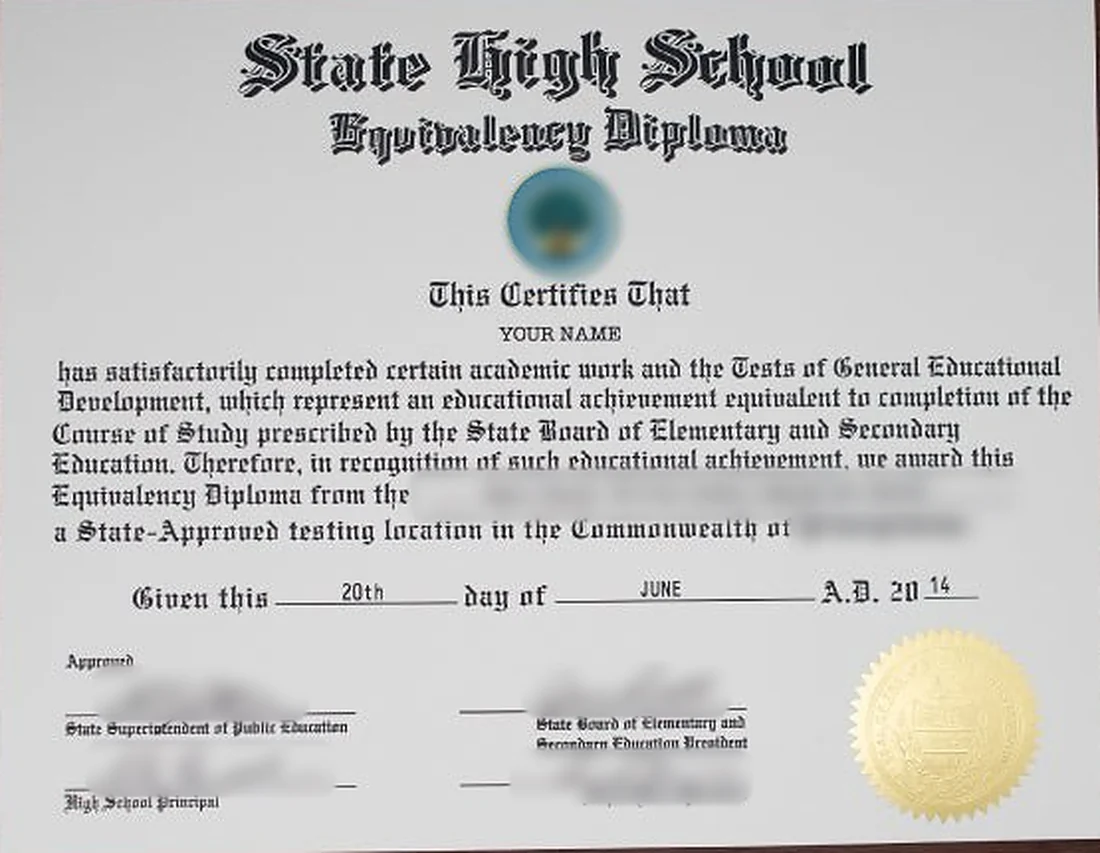
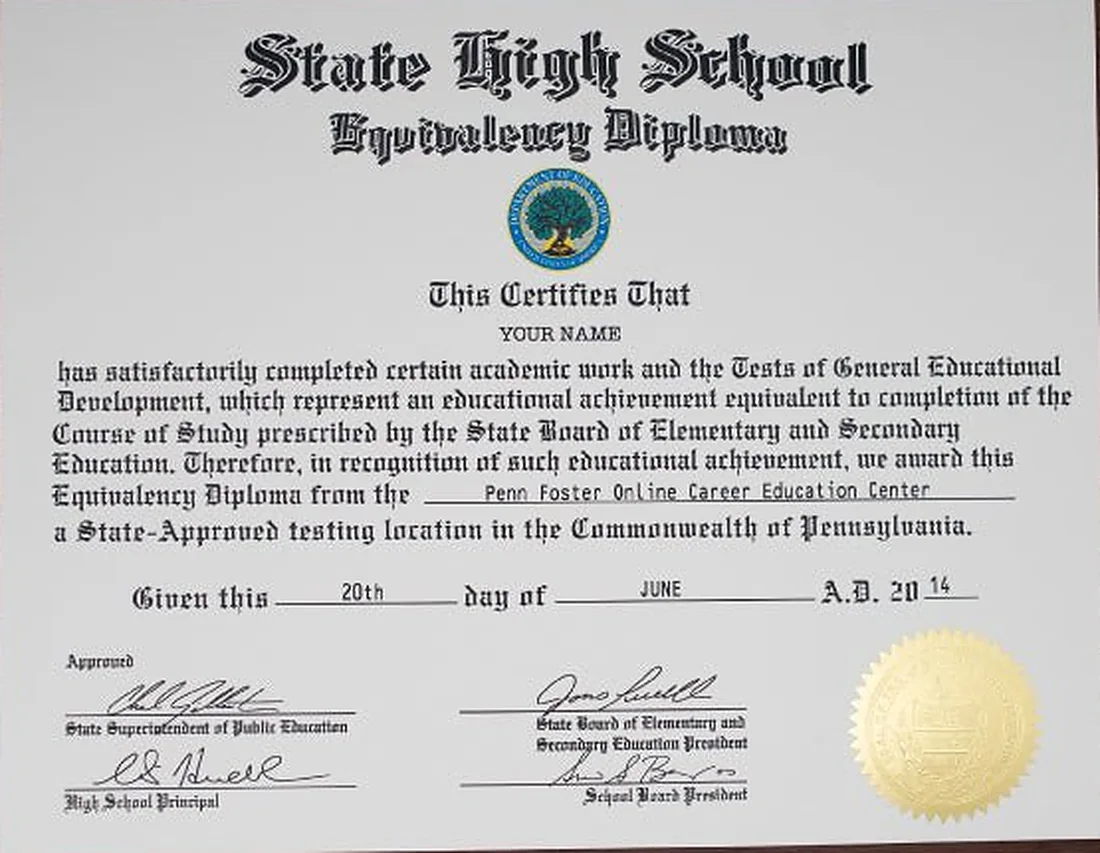
Noir Foil R10: section 01 eight-sample spread under the 01 numeral; school names allowed, recipient names blurred

diff --git a/noir-foil/index.html b/noir-foil/index.html
@@ -55,8 +55,8 @@
   <div class="nf-diff__head">
     <p class="nf-label">THE SAME DAY DIPLOMAS DIFFERENCE</p>
     <h2 class="nf-h2">Fake High School and College Diploma Makers</h2>
-    <a class="nf-collage" href="shop.html" aria-label="Shop high school, GED and college diplomas"><span class="nf-collage__card nf-collage__card--a"><img src="img/s01-college.webp" alt="Photo of a printed Master of Business Administration diploma (names blurred)" width="1200" height="923" loading="lazy" decoding="async"></span><span class="nf-collage__card nf-collage__card--b"><img src="img/s01-high-school.webp" alt="Photo of a printed high school diploma with gold seal (names blurred)" width="940" height="1205" loading="lazy" decoding="async"></span><span class="nf-collage__card nf-collage__card--c"><img src="img/s01-ged.webp" alt="Photo of a printed high school equivalency (GED) diploma on wood (names blurred)" width="1100" height="853" loading="lazy" decoding="async"></span></a>
   </div>
+  <a class="nf-collage" href="shop.html" aria-label="Shop high school, GED, college diplomas and certificates"><span class="nf-collage__card nf-collage__card--1"><img src="img/s01-pepperdine.webp" alt="Photo of a printed Pepperdine University doctoral diploma" width="1150" height="891" loading="lazy" decoding="async"></span><span class="nf-collage__card nf-collage__card--2"><img src="img/s01-marquette.webp" alt="Photo of a hand-held Marquette University bachelor's diploma (name blurred)" width="1150" height="885" loading="lazy" decoding="async"></span><span class="nf-collage__card nf-collage__card--3"><img src="img/s01-national.webp" alt="Photo of a hand-held National University bachelor's diploma (name blurred)" width="1150" height="885" loading="lazy" decoding="async"></span><span class="nf-collage__card nf-collage__card--4"><img src="img/s01-auburn.webp" alt="Photo of a hand-held Auburn University bachelor's diploma (name blurred)" width="1150" height="885" loading="lazy" decoding="async"></span><span class="nf-collage__card nf-collage__card--5"><img src="img/s01-alberta.webp" alt="Photo of a printed Alberta high school diploma (name blurred)" width="900" height="1154" loading="lazy" decoding="async"></span><span class="nf-collage__card nf-collage__card--6"><img src="img/s01-aqa.webp" alt="Photo of a printed AQA General Certificate of Education (name blurred)" width="900" height="1224" loading="lazy" decoding="async"></span><span class="nf-collage__card nf-collage__card--7"><img src="img/s01-ged.webp" alt="Photo of a printed state high school equivalency (GED) diploma" width="1100" height="853" loading="lazy" decoding="async"></span><span class="nf-collage__card nf-collage__card--8"><img src="img/s01-wecloud.webp" alt="Photo of a printed certificate of achievement (name blurred)" width="1150" height="878" loading="lazy" decoding="async"></span></a>
   <div class="nf-diff__body">
     <p class="nf-lead">Same Day Diplomas provides high-quality replacement, replica diplomas, transcripts &amp; certificates since 2001! Our quality and service is unmatched. See for yourself! We are glad you are here.</p>
     <ul class="nf-trust"><li><svg viewBox="0 0 24 24" width="26" height="26" fill="none" stroke="currentColor" stroke-width="1.4" stroke-linecap="round" stroke-linejoin="round" aria-hidden="true"><path d="M3 21h18"/><path d="M5 21V8l7-4 7 4v13"/><path d="M9 21v-6h6v6"/><path d="M9 10h.01M15 10h.01M12 10h.01"/></svg><span>ESTABLISHED ONLINE DIPLOMA PROVIDER</span></li><li><svg viewBox="0 0 24 24" width="26" height="26" fill="none" stroke="currentColor" stroke-width="1.4" stroke-linecap="round" stroke-linejoin="round" aria-hidden="true"><rect x="4" y="11" width="16" height="10" rx="2"/><path d="M8 11V7a4 4 0 0 1 8 0v4"/><circle cx="12" cy="16" r="1.2"/></svg><span>SECURE CHECKOUT</span></li><li><svg viewBox="0 0 24 24" width="26" height="26" fill="none" stroke="currentColor" stroke-width="1.4" stroke-linecap="round" stroke-linejoin="round" aria-hidden="true"><path d="M3 7h11v10H3z"/><path d="M14 10h4l3 3v4h-7"/><circle cx="7" cy="19" r="1.6"/><circle cx="17.5" cy="19" r="1.6"/></svg><span>DISCREET SHIPPING</span></li><li><svg viewBox="0 0 24 24" width="26" height="26" fill="none" stroke="currentColor" stroke-width="1.4" stroke-linecap="round" stroke-linejoin="round" aria-hidden="true"><path d="M9 11l3 3L22 4"/><path d="M21 12v7a2 2 0 0 1-2 2H5a2 2 0 0 1-2-2V5a2 2 0 0 1 2-2h11"/></svg><span>75000+ COMPLETED ORDERS</span></li><li><svg viewBox="0 0 24 24" width="26" height="26" fill="none" stroke="currentColor" stroke-width="1.4" stroke-linecap="round" stroke-linejoin="round" aria-hidden="true"><circle cx="12" cy="12" r="9"/><path d="M3 12h18"/><path d="M12 3a14 14 0 0 1 0 18a14 14 0 0 1 0-18"/></svg><span>GLOBAL REACH</span></li><li><svg viewBox="0 0 24 24" width="26" height="26" fill="none" stroke="currentColor" stroke-width="1.4" stroke-linecap="round" stroke-linejoin="round" aria-hidden="true"><path d="m12 3.5 2.4 4.9 5.4.8-3.9 3.8.9 5.4L12 15.9 7.2 18.4l.9-5.4-3.9-3.8 5.4-.8z"/></svg><span>POSITIVE REVIEWS</span></li></ul>

diff --git a/noir-foil/styles.css b/noir-foil/styles.css
@@ -132,18 +132,22 @@ button{font:inherit;color:inherit;cursor:pointer;background:none;border:0}
 .nf-diff{display:grid;grid-template-columns:repeat(12,1fr);gap:2rem;align-items:start}
 .nf-diff>.nf-bignum{grid-column:1/4;margin-top:-.5rem}
 .nf-diff__head{grid-column:4/9}
-.nf-diff__body{grid-column:9/13;padding-top:2.2rem}
+.nf-diff__body{grid-column:9/13;grid-row:1/3;padding-top:2.2rem}
 /* R9: section 01 collage - three real photographed samples (college / high school / GED) as overlapping gold-framed cards */
-.nf-collage{position:relative;display:block;aspect-ratio:1.3;margin:2.6rem 0 0;max-width:580px}
-.nf-collage::before{content:"";position:absolute;inset:8% 4% 2%;background:radial-gradient(ellipse at 50% 55%,rgba(201,164,92,.16),transparent 68%);pointer-events:none}
-.nf-collage__card{position:absolute;display:block;background:var(--paper);padding:5px;border:1px solid var(--gold);box-shadow:0 0 0 4px rgba(10,9,8,.85),0 0 0 5px var(--gold-lo),0 26px 48px rgba(0,0,0,.6);transition:transform .35s ease}
+/* R10: eight-sample spread under "01", across the middle column */
+.nf-collage{grid-column:1/9;grid-row:2;position:relative;display:block;aspect-ratio:1.85;margin:1rem 0 0}
+.nf-collage::before{content:"";position:absolute;inset:6% 2% 0;background:radial-gradient(ellipse at 50% 55%,rgba(201,164,92,.15),transparent 70%);pointer-events:none}
+.nf-collage__card{position:absolute;display:block;background:var(--paper);padding:5px;border:1px solid var(--gold);box-shadow:0 0 0 4px rgba(10,9,8,.85),0 0 0 5px var(--gold-lo),0 22px 42px rgba(0,0,0,.6);transform:rotate(var(--r,0deg));transition:transform .35s ease}
 .nf-collage__card img{display:block;width:100%;height:auto}
-.nf-collage__card--a{left:22%;top:0;width:60%;transform:rotate(-2deg);z-index:1}
-.nf-collage__card--b{left:0;top:37%;width:30%;transform:rotate(-6deg);z-index:2}
-.nf-collage__card--c{right:0;top:49%;width:48%;transform:rotate(4.5deg);z-index:3}
-.nf-collage:hover .nf-collage__card--a{transform:rotate(-1deg) translateY(-4px)}
-.nf-collage:hover .nf-collage__card--b{transform:rotate(-8deg) translateX(-4px)}
-.nf-collage:hover .nf-collage__card--c{transform:rotate(6deg) translateX(4px)}
+.nf-collage__card--1{left:0;top:3%;width:30%;--r:-3deg;z-index:2}
+.nf-collage__card--2{left:35%;top:0;width:28%;--r:2deg;z-index:1}
+.nf-collage__card--3{left:2%;top:50%;width:27%;--r:2.5deg;z-index:3}
+.nf-collage__card--4{left:63%;top:5%;width:26%;--r:-2deg;z-index:2}
+.nf-collage__card--5{left:25.5%;top:28%;width:15%;--r:4deg;z-index:4}
+.nf-collage__card--6{left:85%;top:17%;width:15%;--r:5deg;z-index:3}
+.nf-collage__card--7{left:39%;top:47%;width:27%;--r:-3deg;z-index:5}
+.nf-collage__card--8{left:65%;top:51%;width:28%;--r:3deg;z-index:4}
+.nf-collage__card:hover{transform:rotate(var(--r,0deg)) translateY(-6px) scale(1.03);z-index:9}
 .nf-trust{list-style:none;margin-top:2.5rem;border-top:1px solid var(--line)}
 .nf-trust li{display:flex;align-items:center;gap:1.1rem;padding:1rem 0;border-bottom:1px solid var(--line);font-size:.86rem;letter-spacing:.14em;font-weight:600;color:var(--ivory)}
 .nf-trust svg{color:var(--gold);flex:none}
@@ -414,7 +418,8 @@ button{font:inherit;color:inherit;cursor:pointer;background:none;border:0}
   .main-nav{gap:1.6rem}
   .mega__cols{grid-template-columns:repeat(3,1fr)}
   .nf-diff>.nf-bignum{grid-column:1/-1}
-  .nf-diff__head{grid-column:1/7}.nf-diff__body{grid-column:7/13;padding-top:0}
+  .nf-diff__head{grid-column:1/7;grid-row:2}.nf-diff__body{grid-column:7/13;grid-row:2;padding-top:0}
+  .nf-collage{grid-column:1/-1;grid-row:3;margin-top:1rem}
   .nf-help__in{grid-template-columns:1fr 1fr}.nf-help__btns{grid-column:1/-1}
   .nf-foil__head{grid-template-columns:auto 1fr}.nf-foil__head .nf-lead{grid-column:1/-1}
 }
@@ -457,9 +462,11 @@ button{font:inherit;color:inherit;cursor:pointer;background:none;border:0}
   .nf-ticker li{gap:1.1rem}
 
   .nf-diff{grid-template-columns:1fr;gap:1rem}
-  .nf-diff>.nf-bignum,.nf-diff__head,.nf-diff__body{grid-column:1/-1}
+  .nf-diff>.nf-bignum,.nf-diff__head,.nf-diff__body,.nf-collage{grid-column:1/-1;grid-row:auto}
   .nf-bignum{font-size:4.6rem}
-  .nf-collage{margin:1.8rem auto .6rem;width:94%}
+  .nf-collage{display:grid;grid-template-columns:1fr 1fr;gap:1.1rem .9rem;aspect-ratio:auto;margin:1.2rem 0 .4rem;padding:6px}
+  .nf-collage__card{position:static;width:auto;align-self:center;padding:3px;box-shadow:0 0 0 3px rgba(10,9,8,.85),0 0 0 4px var(--gold-lo),0 14px 26px rgba(0,0,0,.55)}
+  .nf-collage__card:nth-child(odd){--r:-1.6deg}.nf-collage__card:nth-child(even){--r:1.6deg}
   .nf-sec{padding:2.8rem 1.25rem}
   .nf-docs{padding-top:2.2rem}
   .nf-duo{grid-template-columns:1fr}

diff --git a/index.html b/index.html
@@ -4,7 +4,7 @@
 <meta charset="utf-8">
 <meta name="viewport" content="width=device-width, initial-scale=1">
 <link rel="icon" href="data:,">
-<title>Same Day Diplomas — Layout Preview Hub (R9)</title>
+<title>Same Day Diplomas — Layout Preview Hub (R10)</title>
 <style>
   @import url('https://fonts.googleapis.com/css2?family=Inter:wght@400;600;800&display=swap');
   *{box-sizing:border-box;margin:0;padding:0}
@@ -40,10 +40,10 @@
   <h2 class="sec sec--new">New alternatives</h2>
   <div class="grid grid--one">
     <a class="card card--new" href="noir-foil/index.html">
-      <div class="tag">Dark luxury editorial <span class="badge">R9</span></div>
+      <div class="tag">Dark luxury editorial <span class="badge">R10</span></div>
       <div class="swatch"><i style="background:#0c0b0a"></i><i style="background:#f2eadb"></i><i style="background:linear-gradient(100deg,#8d6f37,#e8cd8a 45%,#b48d42)"></i><i style="background:#650101"></i></div>
       <h2>Noir Foil</h2>
-      <p>Near-black stationery feel with ivory letterhead header, bold Archivo headings and gold-foil accents. <em>R9:</em> new hero photo (graduate in black and gold); section 01 collage of real HS / GED / college samples. <em>R8:</em> hero is one lifestyle photo edge to edge in the right half. <em>R7:</em> real printed-document photos with names blurred (kept in the repo for later sections). <em>R6:</em> Bodoni replaced by Archivo sitewide. <em>R5:</em> heavier/brighter type sitewide, solid gold section numbers, an image in section 01, tighter spacing and Arabic numerals throughout.</p>
+      <p>Near-black stationery feel with ivory letterhead header, bold Archivo headings and gold-foil accents. <em>R10:</em> section 01 grows to an eight-sample spread of real photographed college, high school, GED and certificate samples under the big 01 (school names may show; recipient names stay blurred). <em>R9:</em> new hero photo (graduate in black and gold); section 01 collage of real HS / GED / college samples. <em>R8:</em> hero is one lifestyle photo edge to edge in the right half. <em>R7:</em> real printed-document photos with names blurred (kept in the repo for later sections). <em>R6:</em> Bodoni replaced by Archivo sitewide. <em>R5:</em> heavier/brighter type sitewide, solid gold section numbers, an image in section 01, tighter spacing and Arabic numerals throughout.</p>
       <p class="pages">Home · Shop · Product</p>
     </a>
   </div>

diff --git a/README.md b/README.md
@@ -3,13 +3,31 @@
 Design-only facelift concepts using live samedaydiplomas.com copy + CDN images. Not the live storefront.
 
 - [Hub](https://taylorcpace.github.io/sdd-site-previews/)
-- [Noir Foil](https://taylorcpace.github.io/sdd-site-previews/noir-foil/) — **R9** dark luxury editorial; near-black, ivory, gold foil, bold Archivo display ([Shop](https://taylorcpace.github.io/sdd-site-previews/noir-foil/shop.html) · [Product](https://taylorcpace.github.io/sdd-site-previews/noir-foil/product.html))
+- [Noir Foil](https://taylorcpace.github.io/sdd-site-previews/noir-foil/) — **R10** dark luxury editorial; near-black, ivory, gold foil, bold Archivo display ([Shop](https://taylorcpace.github.io/sdd-site-previews/noir-foil/shop.html) · [Product](https://taylorcpace.github.io/sdd-site-previews/noir-foil/product.html))
 
 Previous round:
 
 - [Flow Clarity](https://taylorcpace.github.io/sdd-site-previews/flow-clarity/) — FLOW-inspired; clear, professional service-site clarity
 - [Congrats Guided](https://taylorcpace.github.io/sdd-site-previews/congrats-guided/) — HeyCongrats-inspired; guided, calm, intent-based retail
 - [Criquet Clean](https://taylorcpace.github.io/sdd-site-previews/criquet-clean/) — Criquet-inspired; clean, photo-led merchandise energy
+
+## Revision 10 (Oct 6, 2026)
+
+Taylor: "throw a few more samples on that section 1.. we can use the space from under the one to the right" and "its ok to have school names. IF they ask us not to make them we will abide by that.."
+
+- **Policy change:** real school and institution names may now show on samples. Recipient (person) names stay placeholders or blurred, personal ID numbers are blurred, signatures are fine, and watermarked images are never used.
+- **Section 01 spread:** the three-card collage is now eight overlapping, slightly rotated, gold-framed cards with no labels. It moved out of the heading column into its own row that runs from the left edge (under the big "01") across the middle column; the intro copy and trust list span both rows on the right. Tablet: full width below the heading and copy. Mobile (≤900px): a neat two-column grid with alternating slight tilts.
+- **Samples (all real photographs; files in `noir-foil/img/`):**
+  - `s01-pepperdine.webp`: Pepperdine University doctoral diploma (original R7 Drive photo, no recipient name on it).
+  - `s01-marquette.webp`: hand-held Marquette University diploma (name already blurred in Drive).
+  - `s01-auburn.webp`: hand-held Auburn University diploma (recipient name blurred).
+  - `s01-national.webp`: hand-held National University diploma (recipient name blurred).
+  - `s01-alberta.webp`: Alberta High School Diploma (original R7 Drive photo, name already blurred).
+  - `s01-aqa.webp`: AQA General Certificate of Education (name already blurred; candidate number blurred).
+  - `s01-ged.webp`: live CDN GED photo `ged-diplomas-9550291.jpg`, now un-blurred (shows the "YOUR NAME" placeholder, Penn Foster and Pennsylvania); still cropped so the "STYLE 3" overlay is gone.
+  - `s01-wecloud.webp`: WeCloudData certificate of achievement (original R7 Drive photo, name already blurred).
+  - Not used: INSEAD (keeps the set from leaning MBA-heavy), plus Utah, South Florida and LIM, which would need heavier name blurring.
+- **Images:** WebP, 900–1150px wide, 49–100 KB each. Script: `scripts/collage_r10.py` (uses `blur_hero_r7.py`). The R9 `s01-college.webp` and `s01-high-school.webp` stay in the repo, unused.
 
 ## Revision 9 (Oct 6, 2026)
 
